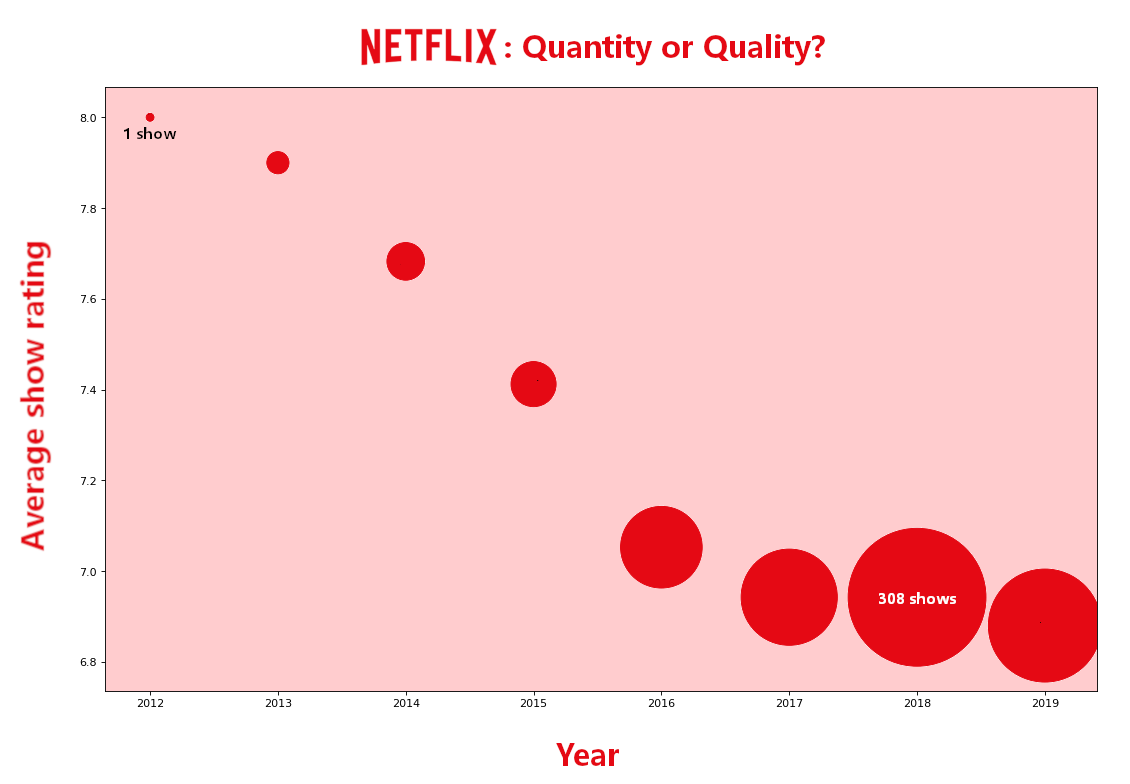
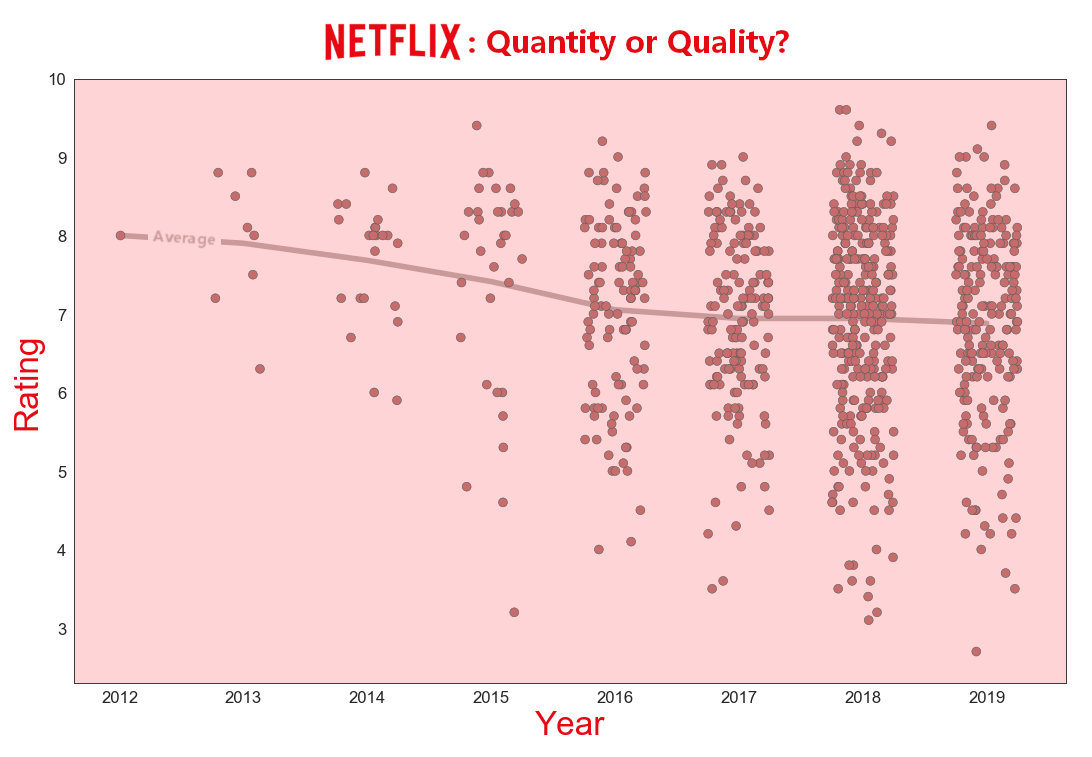
switching netflix rating analysis to scatterplot with mean

diff --git a/netflix_offerings/netflix_avg_rating.py b/netflix_offerings/netflix_avg_rating.py
@@ -17,37 +17,32 @@ indexMerge = pd.merge(release_dates, imdb_indices, how='inner', left_on='Offerin
 ratingsMerge = pd.merge(indexMerge, imdb_ratings, how='inner', left_on='tconst', right_on='tconst')
 ratings = ratingsMerge[ratingsMerge.numVotes > 500] #killing duplicates on netflix or small shows. results in almost same size dataset
 
-
 #pulling out year
 ratings['Year'] = ratings['Date'].map(lambda x: datetime.datetime.strptime(x, '%B %d, %Y').year)
 
+
 #avg ratings
 meanratings = ratings.groupby('Year').mean()
+meanratings['Year'] = meanratings.index
 
-#total offerings
-totalofferings = pd.DataFrame(ratings.groupby('Year').size())
+sns.set_style("white")
 
-graphdata = pd.merge(meanratings, totalofferings, how='inner', left_index=True, right_index=True)
-
-
-graphdata = graphdata[['averageRating',0]]
-graphdata.rename(columns={0:'numOfferings'}, 
-                 inplace=True)
-graphdata = graphdata.reset_index()
-
-#notes:
-#a few duplicates so not 100% accurate
-#release date of things, so if they kept running it may raise or lower the average
-
-colors = [plt.cm.rainbow(i/float(len(graphdata)-1)) for i in range(len(graphdata))]
+# Draw Stripplot
 fig, ax = plt.subplots(figsize=(16,10), dpi= 80)    
-plt.scatter(graphdata.Year, graphdata.averageRating, s=graphdata.numOfferings*50, c='#e50914') #graphdata.numOfferings 5-150
+b = sns.stripplot(ratings["Year"], ratings["averageRating"], jitter=0.25, color="#c66c6c", size=8, ax=ax, linewidth=.5)
+b.set_facecolor('#ffd4d6')
+b.tick_params(axis='both', which='major', labelsize=15)
+b.tick_params(axis='both', which='minor', labelsize=15)
+b.set_xlabel("Year", fontsize=30,color="#e50914")
+b.set_ylabel("Rating", fontsize=30,color="#e50914")
 
-for i, txt in enumerate(graphdata['numOfferings']):
-    ax.annotate(txt, (graphdata['Year'][i], graphdata['averageRating'][i]),  ha='center', va='center')
-
+x = plt.gca().axes.get_xlim()
+             
+b.plot([0,1,2,3,4,5,6,7],meanratings['averageRating'],color='#ca9999',linewidth=5)
+          
 plt.title('Netflix: Quantity vs Quality', fontsize=22)
 plt.show()
+
 
 
 
